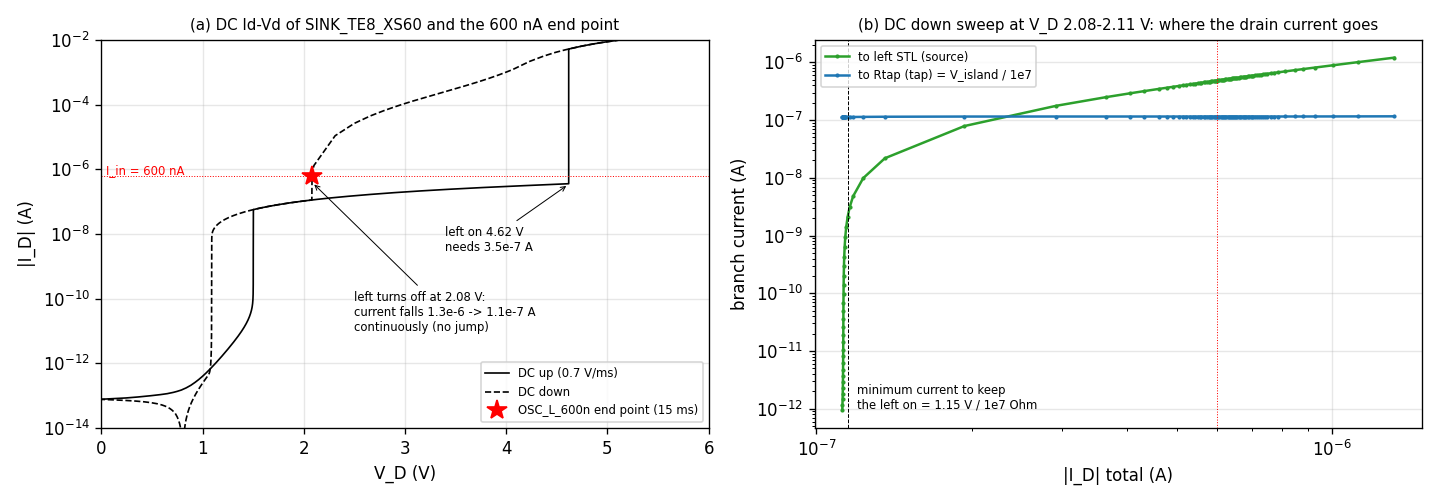
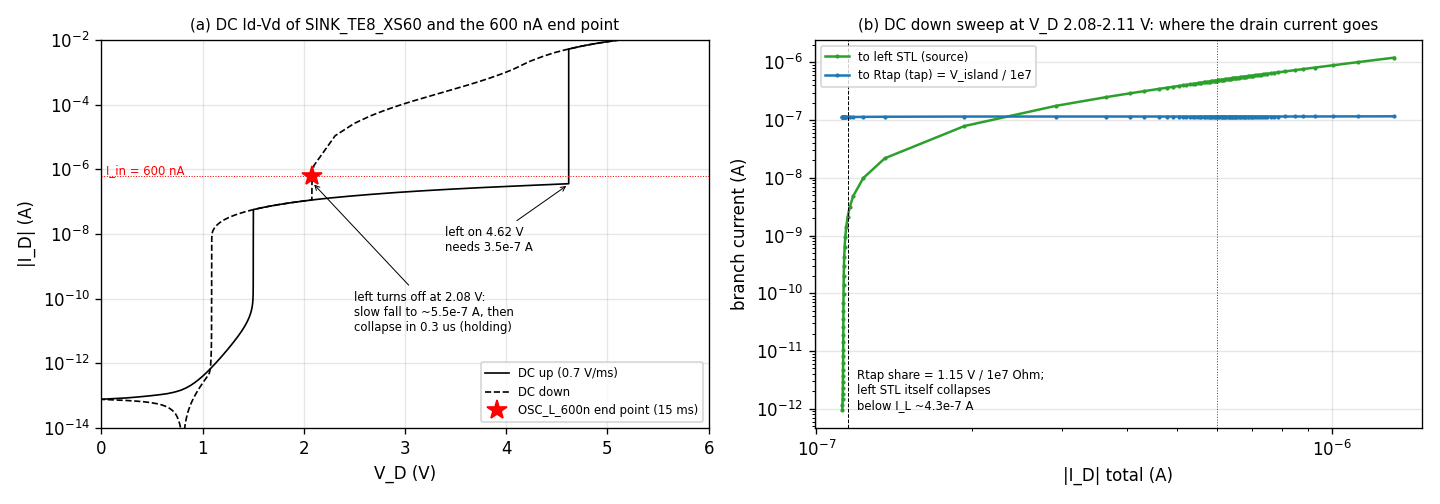
README Step 16: correct the left holding-current reading
The left STL does not fade out continuously: on the DC down sweep it collapses
in 0.3 us once its own current drops to ~4.3e-7 A (same in the standalone left
STL LSTL_P6e17). Left-loop window is ~3.6e-7 < I < ~5.5e-7 A, 600 nA was just
above it. Rtap window becomes 5.6e6 - 3e8 Ohm (1e7 inside). Fig. 4 labels fixed.

Changed region(s): [[0.5938, 0.7143, 0.7188, 0.8333], [0.25, 0.5952, 0.375, 0.6548], [0.25, 0.4762, 0.2812, 0.5357]]

diff --git a/1028_osc/plot_osc.py b/1028_osc/plot_osc.py
@@ -62,12 +62,12 @@ if os.path.exists(dc) and os.path.exists(fl):
     a.plot(L[-1, cl['V[1]']], abs(L[-1, cl['Adev_drain']]), 'r*', ms=12, label='OSC_L_600n end point (15 ms)')
     a.axhline(6e-7, color='r', lw=.6, ls=':'); a.text(0.05, 7e-7, 'I_in = 600 nA', color='r', fontsize=7)
     a.annotate('left on 4.62 V\nneeds 3.5e-7 A', (4.62, 3.5e-7), (3.4, 3e-9), fontsize=7, arrowprops=dict(arrowstyle='->', lw=.6))
-    a.annotate('left turns off at 2.08 V:\ncurrent falls 1.3e-6 -> 1.1e-7 A\ncontinuously (no jump)', (2.08, 4e-7), (2.5, 1e-11), fontsize=7, arrowprops=dict(arrowstyle='->', lw=.6))
+    a.annotate('left turns off at 2.08 V:\nslow fall to ~5.5e-7 A, then\ncollapse in 0.3 us (holding)', (2.08, 4e-7), (2.5, 1e-11), fontsize=7, arrowprops=dict(arrowstyle='->', lw=.6))
     a.set_xlim(0, 6); a.set_ylim(1e-14, 1e-2); a.set_xlabel('V_D (V)'); a.set_ylabel('|I_D| (A)'); a.grid(alpha=.3); a.legend(fontsize=7, loc='lower right')
     a.set_title('(a) DC Id-Vd of SINK_TE8_XS60 and the 600 nA end point', fontsize=9)
     s = dn[(v[dn] > 2.075) & (v[dn] < 2.11)]
     a = ax[1]; a.loglog(np.abs(Id[s]), np.abs(Is[s]), 'C2.-', ms=3, label='to left STL (source)'); a.loglog(np.abs(Id[s]), np.abs(It[s]), 'C0.-', ms=3, label='to Rtap (tap) = V_island / 1e7')
-    a.axvline(6e-7, color='r', lw=.6, ls=':'); a.axvline(1.15e-7, color='k', lw=.6, ls='--'); a.text(1.2e-7, 1e-12, 'minimum current to keep\nthe left on = 1.15 V / 1e7 Ohm', fontsize=7)
+    a.axvline(6e-7, color='r', lw=.6, ls=':'); a.axvline(1.15e-7, color='k', lw=.6, ls='--'); a.text(1.2e-7, 1e-12, 'Rtap share = 1.15 V / 1e7 Ohm;\nleft STL itself collapses\nbelow I_L ~4.3e-7 A', fontsize=7)
     a.set_xlabel('|I_D| total (A)'); a.set_ylabel('branch current (A)'); a.grid(alpha=.3); a.legend(fontsize=7)
     a.set_title('(b) DC down sweep at V_D 2.08-2.11 V: where the drain current goes', fontsize=9)
     fig.tight_layout(); fig.savefig(os.path.join(H, 'osc_L_why.png'), dpi=120)
